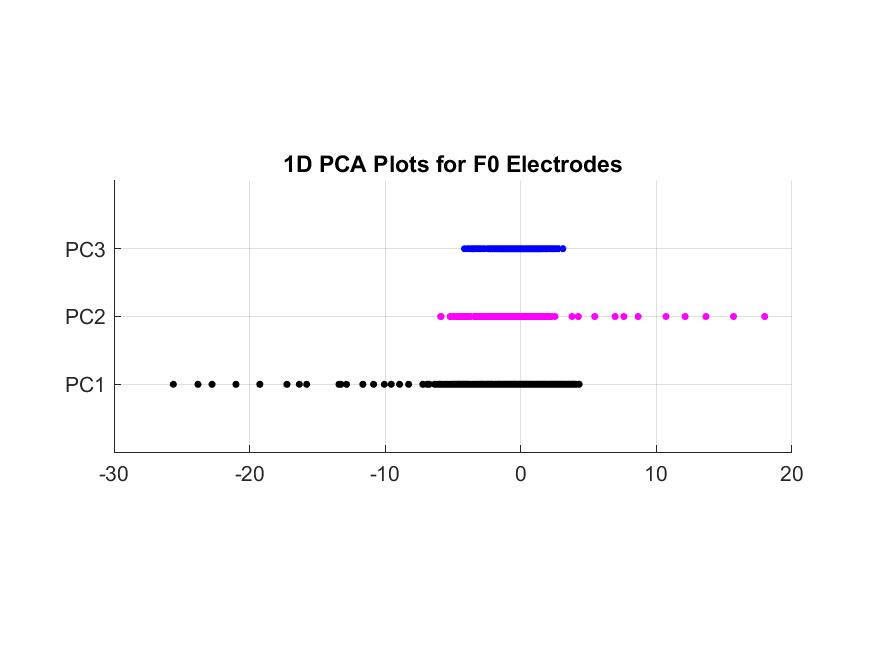
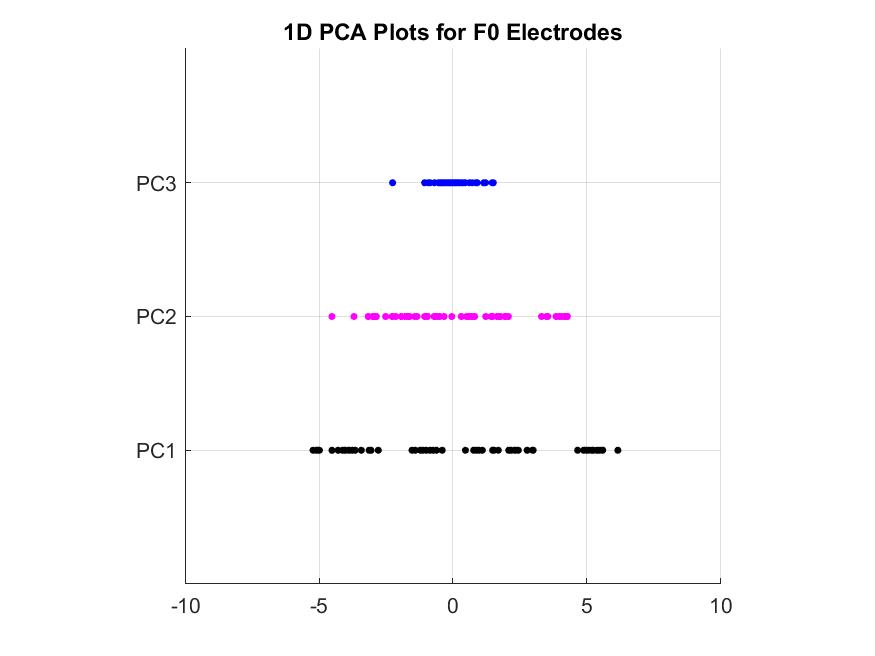
electrode data corrected

diff --git a/cvpr_coursework_2.m b/cvpr_coursework_2.m
@@ -173,10 +173,6 @@ P = A*coeff;    % Get 2D projected data
 figure(8)
 colours = linspace(1,10,length(pressure));
 scatter(P(:,1),P(:,2),10,colours,'filled')
-%hold on
-%vbls = {'PC1','PC2'}; % Labels for the variables
-%biplot(coeff(:,1:2),'VarLabels',vbls);
-%plot([0 0; vector_1(:,1), vector_2(:,1)], [0 0; vector_1(:,2), vector_2(:,2)])
 axis([-3 3 -3 3])
 axis square
 xlabel('PC1')
@@ -202,7 +198,15 @@ title('1D PCA Plots for F0 PVT Data')
 %% Section B.2 - Principal Component Analysis - Electrodes
 clc
 % Get electrodes data for one finger (F0) - same as for PVT
-E = F0Electrodes;
+labels = [];
+features = [];
+for i = [1:60]
+    features(:,i) = F0_Electrodes_500(i).impedance;
+    labels = [labels, floor((i-1)/10)];
+    %E = [E; {F0_Electrodes_500(v).impedance}];
+end
+
+E = features;
 
 % standarize the data
 E = bsxfun(@minus,E',mean(E'))./ std(E');
@@ -223,7 +227,7 @@ xlabel('Component Number')
 ylabel('Eigenvalue')
 set(gca,'YTick',0:1:12) % Set more ticks in y-axis
 title('Variance PCA Scree Plot for F0 Electrode Data')
-%saveas(figure(10),[pwd '\results\Section_B\scree_plot_electrodes.jpg']);
+saveas(figure(10),[pwd '\results\Section_B\scree_plot_electrodes.jpg']);
 
 % Visualise data with first 3 PC
 PC3_Ecoeff = Ecoeff(:,3); % Get THIRD column as PC3
@@ -243,13 +247,16 @@ plot(EPC1,5,'k.','MarkerSize',10);   % Plot data set 1 (at y = 5)
 plot(EPC2,10,'m.','MarkerSize',10);  % Plot data set 2 (at y = 10)
 plot(EPC3,15,'b.','MarkerSize',10);  % Plot data set 3 (at y = 15)
 grid on
+xlim([-10 10])
 yticks([5, 10, 15]) % Show only ticks for the 3 PC
 yticklabels({'PC1', 'PC2', 'PC3'}) % Replace tick values with PC names
 title('1D PCA Plots for F0 Electrodes')
-%saveas(figure(11),[pwd '\results\Section_B\1D_plot_PCA_Electrodes.jpg']);
+saveas(figure(11),[pwd '\results\Section_B\1D_plot_PCA_Electrodes.jpg']);
 
 J = [EPC1 EPC2 EPC3]; % Combine projected data onto PC vectors into one data matrix
 J_coeff = [PC1_Ecoeff PC2_Ecoeff PC3_Ecoeff]; % Combine PC vectors into one data matrix
+
+electrodes_data = [labels' J];
 
 % Plot the 3D projected Data onto top 3 variance PC
 figure(12)
@@ -258,8 +265,10 @@ scatter3(J(:,1),J(:,2),J(:,3),10,colours,'filled') % Plot the projected data ont
 xlabel('PC1')
 ylabel('PC2')
 zlabel('PC3')
+axis([-6 6 -6 6 -6 6])
+axis square
 title('Projection for first 3 PC of Electrode Data')
-%saveas(figure(12),[pwd '\results\Section_B\projected_PCA_Scatter_3D_Electrodes.jpg']);
+saveas(figure(12),[pwd '\results\Section_B\projected_PCA_Scatter_3D_Electrodes.jpg']);
 
 %% Section C - Linear Discriminant Analysis
 
@@ -459,7 +468,7 @@ clc
 
 % Take the electrode data processed by PCA in Section B.2 (original
 % un-standardized data (can be seen in Section B.1))
-data = J;
+data = electrodes_data;
 % Cross varidation (train: 60%, test: 40%)
 cv = cvpartition(size(data,1),'HoldOut',0.4);
 idx = cv.test;
@@ -467,14 +476,17 @@ idx = cv.test;
 dataTrain = data(~idx,:);
 dataTest  = data(idx,:);
 
-Ztrain = linkage(dataTrain); 
-ctrain = cluster(Ztrain,'Maxclust',6); % create the clustering using 6 clusters to get the classlabels
+classTrain = dataTrain(:,1);
+Dtrain = [];
+for i=[2:4]
+    Dtrain = [Dtrain dataTrain(:,i)];
+end
 
 % train the training data
-MdlTrain = TreeBagger(100,dataTrain,ctrain,'OOBPrediction','On','Method','classification','OOBPredictorImportance','off')
+Mdl = TreeBagger(100,Dtrain,classTrain,'OOBPrediction','On','Method','classification','OOBPredictorImportance','off')
 
-view(MdlTrain.Trees{1},'Mode','graph') % view the first tree generated
-view(MdlTrain.Trees{2},'Mode','graph') % view the second tree generated
+view(Mdl.Trees{1},'Mode','graph') % view the first tree generated
+view(Mdl.Trees{2},'Mode','graph') % view the second tree generated
 
 % plot the out of bag (oob) error for the model
 figure(22)
@@ -483,28 +495,31 @@ plot(oobErrorBaggedEnsembleTrain)
 grid on
 xlabel ('Number of grown trees')
 ylabel ('Out-of-bag classification error')
-%saveas(figure(22),[pwd '\results\Section_D\oob_error.jpg']);
+saveas(figure(22),[pwd '\results\Section_D\out-of-bag-error.jpg']);
 
 %% Section D.2.c - Confusion Matrix
 clc
+
+classTest = dataTest(:,1);
+Dtest = [];
+for i=[2:4]
+    Dtest = [Dtest dataTest(:,i)];
+end
+
 predicted_class = []; % created an empty matrix to input the predicted class
-for i=1:size(dataTest,1) % loop through the split test data
-    predicted = predict(MdlTrain, dataTest(i,:)); % predict the class using the training model
+for i=1:size(Dtest,1) % loop through the split test data
+    predicted = predict(Mdl, Dtest(i,:)); % predict the class using the training model
     predicted = cell2mat(predicted);  % convert cell type into matrix  
     predicted = str2double(predicted); % convert character values into double matrix
     predicted_class = [predicted_class; {predicted}]; % append the predicted values to the predicted_class matrix
 end
+predicted_class = cell2mat(predicted_class) % convert cell type to matrix type
 
-Ztest = linkage(dataTest); % original un-standardized data (can be seen in Section B.1)
-ctest = cluster(Ztest,'Maxclust',6); % create the clustering using 6 clusters to get the true class value 
-
-predicted_class = cell2mat(predicted_class); % convert cell type to matrix type
-
-g1 = ctest;	% Known groups
+g1 = classTest;	% Known groups
 g2 = predicted_class;	% Predicted groups
 
 % generate the confusion chart/matrix
 figure(23)
 confusionchart(g1,g2)
-%saveas(figure(23),[pwd '\results\Section_D\confusion_chart.jpg']);
+saveas(figure(23),[pwd '\results\Section_D\confusion_matrix.jpg']);
 
